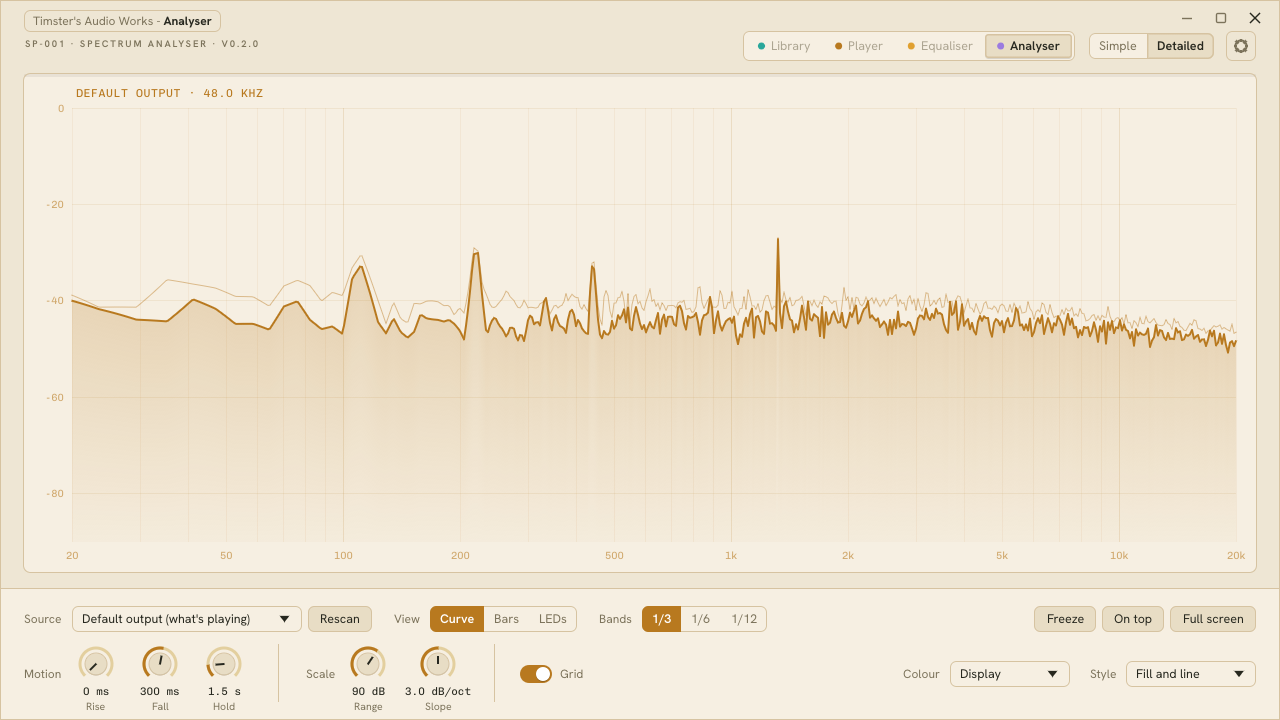
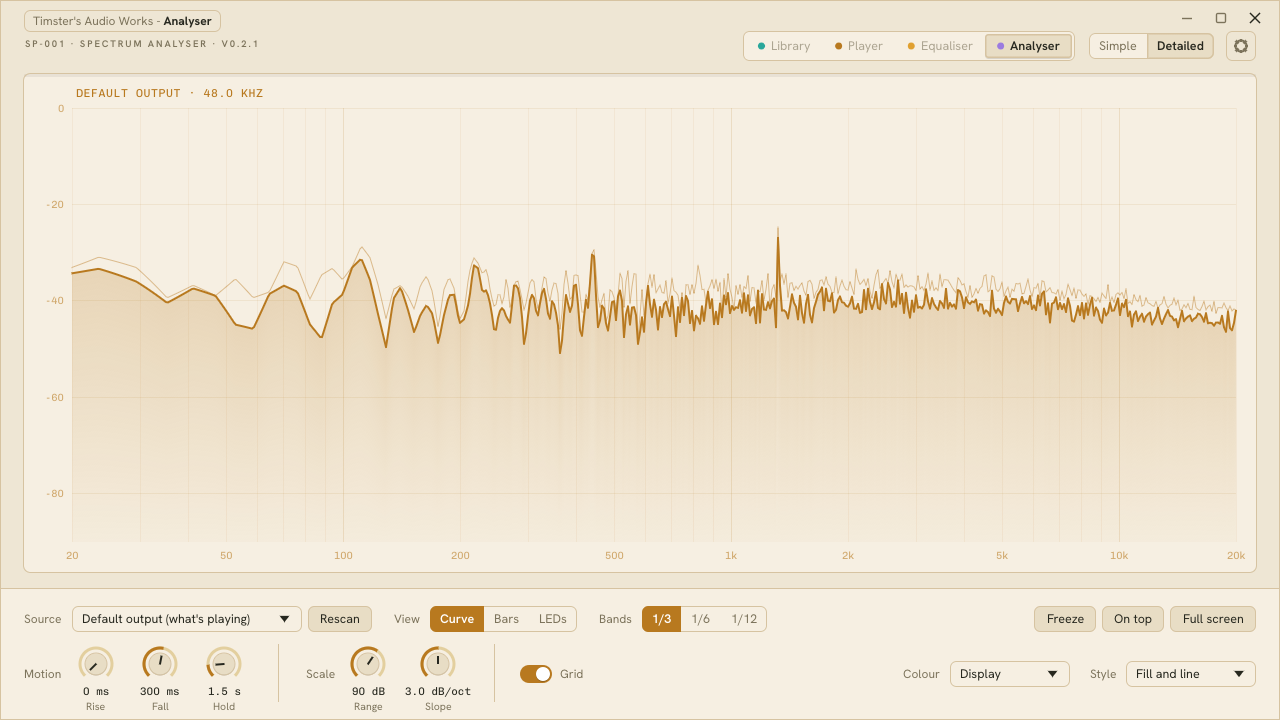
TAW Analyser 0.2.1
The family's tighter look (TAW-Panel 0.4.0) and the spectrum falling
away in silence. Version in Cargo.toml and README, CHANGELOG section,
README screenshots showing V0.2.1, HANDOFF and ROADMAP.

Claude-Session: https://claude.ai/code/session_01TYDHa2CF3q1gPX2cnAuDSp

Changed region(s): [[0.0312, 0.3361, 0.9688, 0.4889]]

diff --git a/HANDOFF.md b/HANDOFF.md
@@ -5,7 +5,8 @@ Written 2026-10-14 when the family's work moved from one shared chat to a chat p
 ## Where it stands
 
 - **0.2.0 released on 2026-10-14** (merged to `main`; release.yml publishes `v0.2.0`): the new TAW look. Spool finish by default (Light, Amber), Porcelain alternative; display fills the window; controls in a bottom bar (H hides it); no system title bar (own window buttons, drag, resize; "Use the system title bar" in Settings); Simple and Detailed; family switcher. The spectrum draws in the display's ink by default; colour schemes are in the Colour menu.
-- TAW-Panel pinned at its 0.4.0 commit `d030ffd` (the Player's and Equaliser's pin) from 2026-10-16, on branch `claude/affectionate-lamport-4qi1x0`, not yet merged or released.
+- **0.2.1 released on 2026-10-16** (merged to `main`; release.yml publishes `v0.2.1`): the family's tighter look and the spectrum falling away in silence (below).
+- TAW-Panel pinned at its 0.4.0 commit `d030ffd`, the same as the Player and Equaliser.
 
 ## Workup, 2026-10-14
 
@@ -25,7 +26,7 @@ Matches the Equaliser: same TAW-Panel pin, nameplate, window buttons, family swi
 
 ## Next
 
-1. The user's visual test of the branch against the Player and Equaliser, then 0.2.1 (bump and merge to release).
+1. The user's visual test of 0.2.1 against the Player and Equaliser, and of the spectrum falling away on Windows.
 2. The rest of 0.2.x in ROADMAP: tests with real sources on Windows and Linux.
 
 ## How to test here

diff --git a/CHANGELOG.md b/CHANGELOG.md
@@ -2,6 +2,10 @@
 
 ## Unreleased
 
+## 0.2.1 – 2026-10-16
+
+Lined up with the Player and Equaliser.
+
 - The family's tighter look (TAW-Panel 0.4.0), as in the Player and Equaliser: the nameplate is the badge and model line without the big ANALYSER, the top band is shorter (the display gets the room), corners are tighter, and the chosen half of Simple / Detailed stands out.
 - **The window resizes from its corners** too, and every time (TAW-Panel 0.3.2).
 - **The spectrum falls away when the sound stops.** On Windows nothing comes through loopback while the output is silent, so the spectrum stood still where the music ended; after a quarter of a second with no audio it now drops to the floor, and the peak marks follow.

diff --git a/README.md b/README.md
@@ -1,6 +1,6 @@
 # TAW Analyser
 
-**Timster's Audio Works – Analyser (SP-001) v0.2.0**: a stand-alone spectrum analyser for Windows and Linux, in the TAW look shared with the Library, Player and Equaliser (Spool or Porcelain, light or dark).
+**Timster's Audio Works – Analyser (SP-001) v0.2.1**: a stand-alone spectrum analyser for Windows and Linux, in the TAW look shared with the Library, Player and Equaliser (Spool or Porcelain, light or dark).
 
 ![The Analyser in Spool's look (Light, Amber), drawing a curve](docs/screenshot.png)
 

diff --git a/ROADMAP.md b/ROADMAP.md
@@ -19,7 +19,7 @@ Sizes: S = one session, M = two or three, L = a release of its own. Briefs from 
 - [ ] Linux output monitors; an input (microphone)
 - [ ] Full screen and On top on a second screen
 - [ ] Fixes from the user's feedback
-- [ ] The family's tighter look: TAW-Panel 0.4.0, the Player's top band; the spectrum falls away in silence (on the branch, for the user's test)
+- [x] The family's tighter look: TAW-Panel 0.4.0, the Player's top band; the spectrum falls away in silence *(0.2.1)*
 
 ### 0.3.0: more ways to look
 
